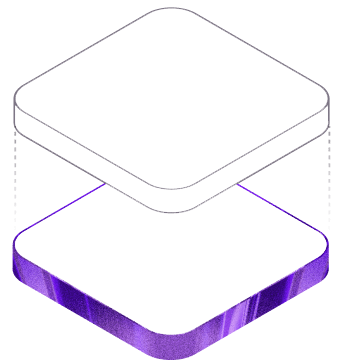
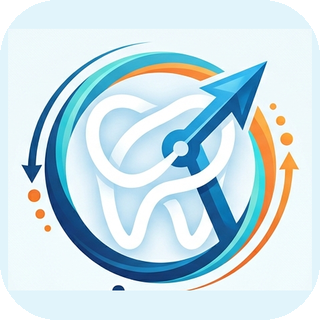
tasrım değiştirme

diff --git a/frontend/src/index.css b/frontend/src/index.css
@@ -1,16 +1,19 @@
 :root {
-  --text: #6b6375;
-  --text-h: #08060d;
-  --bg: #fff;
+  --text: #5b7089;
+  --text-h: #143f72;
+  --bg: #eaf4fb;
   --card-bg: #fff;
-  --border: #e5e4e7;
-  --accent: #aa3bff;
-  --accent-hover: #9420f0;
-  --accent-bg: rgba(170, 59, 255, 0.1);
+  --border: #d7e6f2;
+  --accent: #1a6faa;
+  --accent-hover: #145a8a;
+  --accent-bg: rgba(26, 111, 170, 0.1);
+  --accent-warm: #f88a3b;
+  --accent-warm-hover: #e07225;
+  --accent-warm-bg: rgba(248, 138, 59, 0.14);
   --error: #dc2626;
   --error-bg: rgba(220, 38, 38, 0.1);
   --shadow:
-    rgba(0, 0, 0, 0.1) 0 10px 15px -3px, rgba(0, 0, 0, 0.05) 0 4px 6px -2px;
+    rgba(20, 63, 114, 0.1) 0 10px 15px -3px, rgba(20, 63, 114, 0.05) 0 4px 6px -2px;
 
   --sans: system-ui, 'Segoe UI', Roboto, sans-serif;
 
@@ -26,14 +29,17 @@
 
 @media (prefers-color-scheme: dark) {
   :root {
-    --text: #9ca3af;
-    --text-h: #f3f4f6;
-    --bg: #16171d;
-    --card-bg: #1f2028;
-    --border: #2e303a;
-    --accent: #c084fc;
-    --accent-hover: #d8a8ff;
-    --accent-bg: rgba(192, 132, 252, 0.15);
+    --text: #9fb3c8;
+    --text-h: #e8f4fc;
+    --bg: #0f2138;
+    --card-bg: #16273b;
+    --border: #22374d;
+    --accent: #4fc3e0;
+    --accent-hover: #6fd3ec;
+    --accent-bg: rgba(79, 195, 224, 0.15);
+    --accent-warm: #ffa552;
+    --accent-warm-hover: #ffb873;
+    --accent-warm-bg: rgba(255, 165, 82, 0.15);
     --error: #f87171;
     --error-bg: rgba(248, 113, 113, 0.12);
     --shadow:

diff --git a/frontend/src/pages/PomodoroPage.css b/frontend/src/pages/PomodoroPage.css
@@ -61,7 +61,7 @@
   font-size: 64px;
   font-weight: 700;
   font-variant-numeric: tabular-nums;
-  color: var(--accent);
+  color: var(--accent-warm);
   letter-spacing: 2px;
 }
 
@@ -103,9 +103,9 @@
 }
 
 .pomodoro-duration-btn.active {
-  background: var(--accent-bg);
-  border-color: var(--accent);
-  color: var(--accent);
+  background: var(--accent-warm-bg);
+  border-color: var(--accent-warm);
+  color: var(--accent-warm);
   font-weight: 600;
 }
 

diff --git a/frontend/src/App.css b/frontend/src/App.css
@@ -125,6 +125,12 @@
   text-align: center;
 }
 
+.home-logo {
+  width: 72px;
+  height: auto;
+  margin-bottom: 4px;
+}
+
 .home-link {
   color: var(--accent);
   font-weight: 600;

diff --git a/frontend/index.html b/frontend/index.html
@@ -2,9 +2,9 @@
 <html lang="en">
   <head>
     <meta charset="UTF-8" />
-    <link rel="icon" type="image/svg+xml" href="/favicon.svg" />
+    <link rel="icon" type="image/png" href="/favicon.png" />
     <meta name="viewport" content="width=device-width, initial-scale=1.0" />
-    <title>frontend</title>
+    <title>DUS Asistan</title>
   </head>
   <body>
     <div id="root"></div>

diff --git a/frontend/src/pages/HomePage.jsx b/frontend/src/pages/HomePage.jsx
@@ -1,4 +1,5 @@
 import { Link, useNavigate } from 'react-router-dom';
+import logoIcon from '../assets/logo-icon.png';
 
 function HomePage() {
     const navigate = useNavigate();
@@ -12,6 +13,7 @@ function HomePage() {
 
     return (
         <div className="home-page">
+            <img src={logoIcon} className="home-logo" alt="DUS Asistan" />
             <h1>Hoş geldin, {user.fullName}</h1>
             <p>{user.targetSpecialty ? `Hedef branş: ${user.targetSpecialty}` : 'Henüz bir hedef branş seçmedin.'}</p>
             <Link to="/flashcards" className="home-link">Çalışma Kartları</Link>